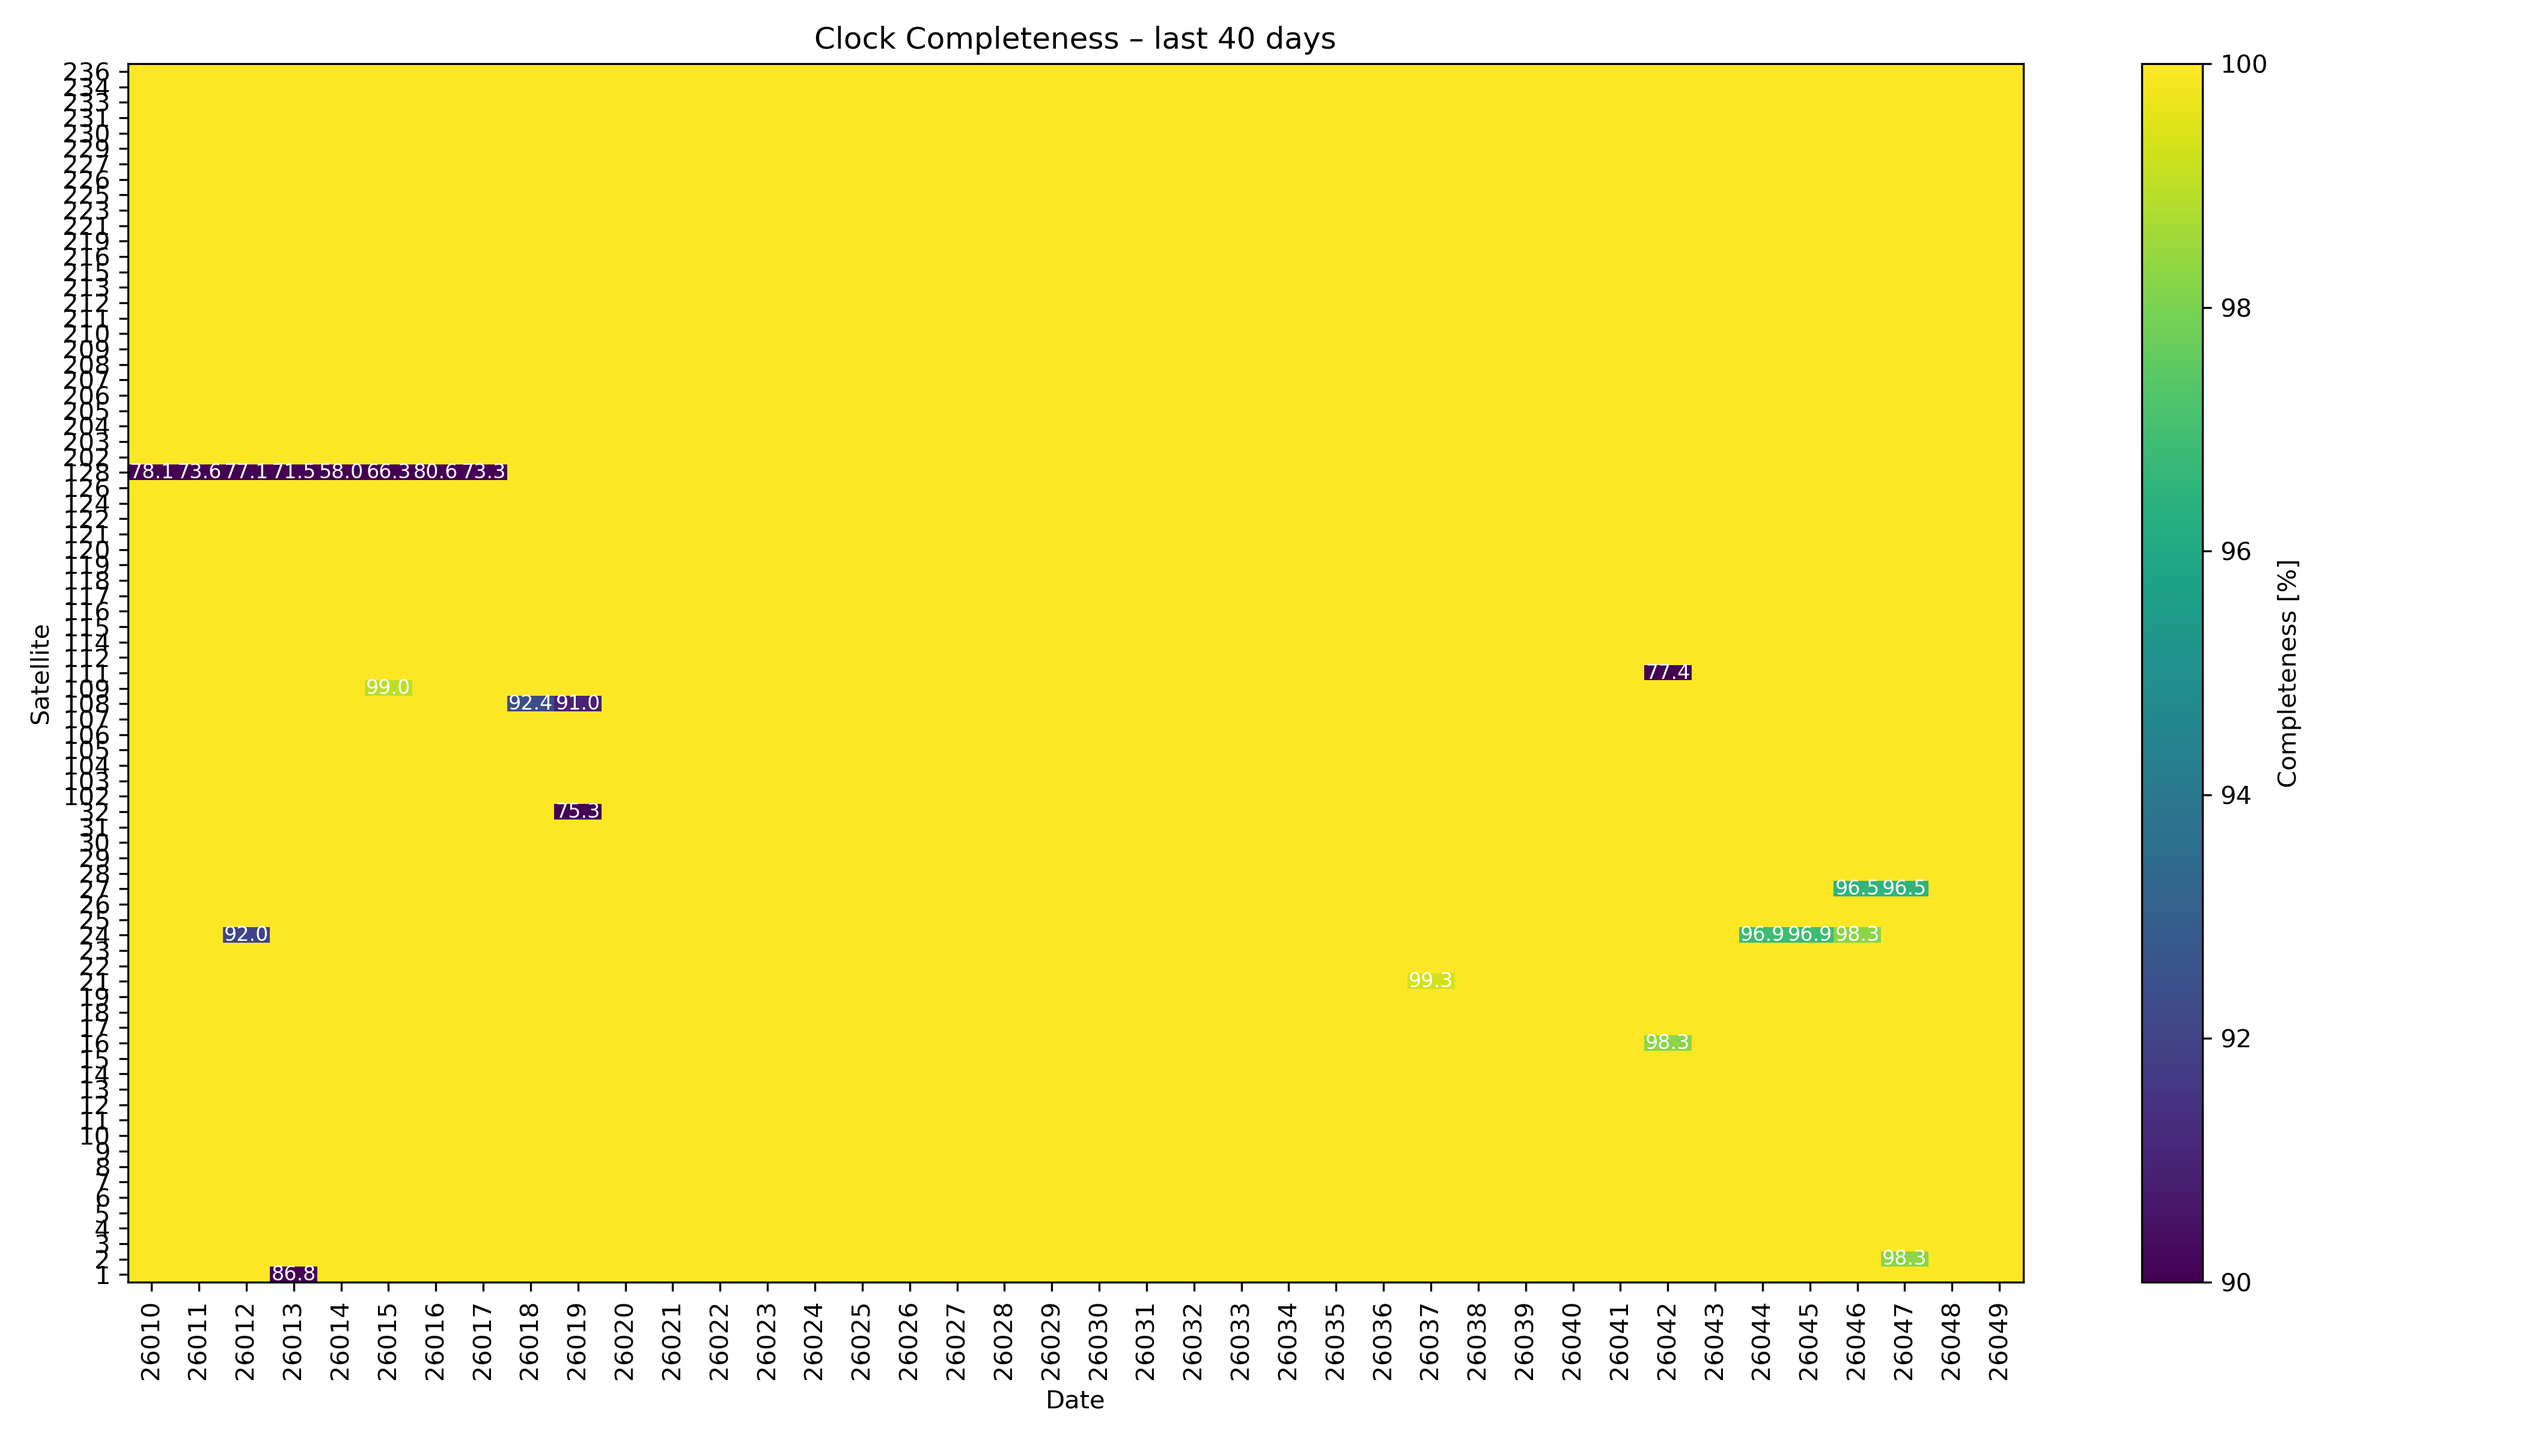
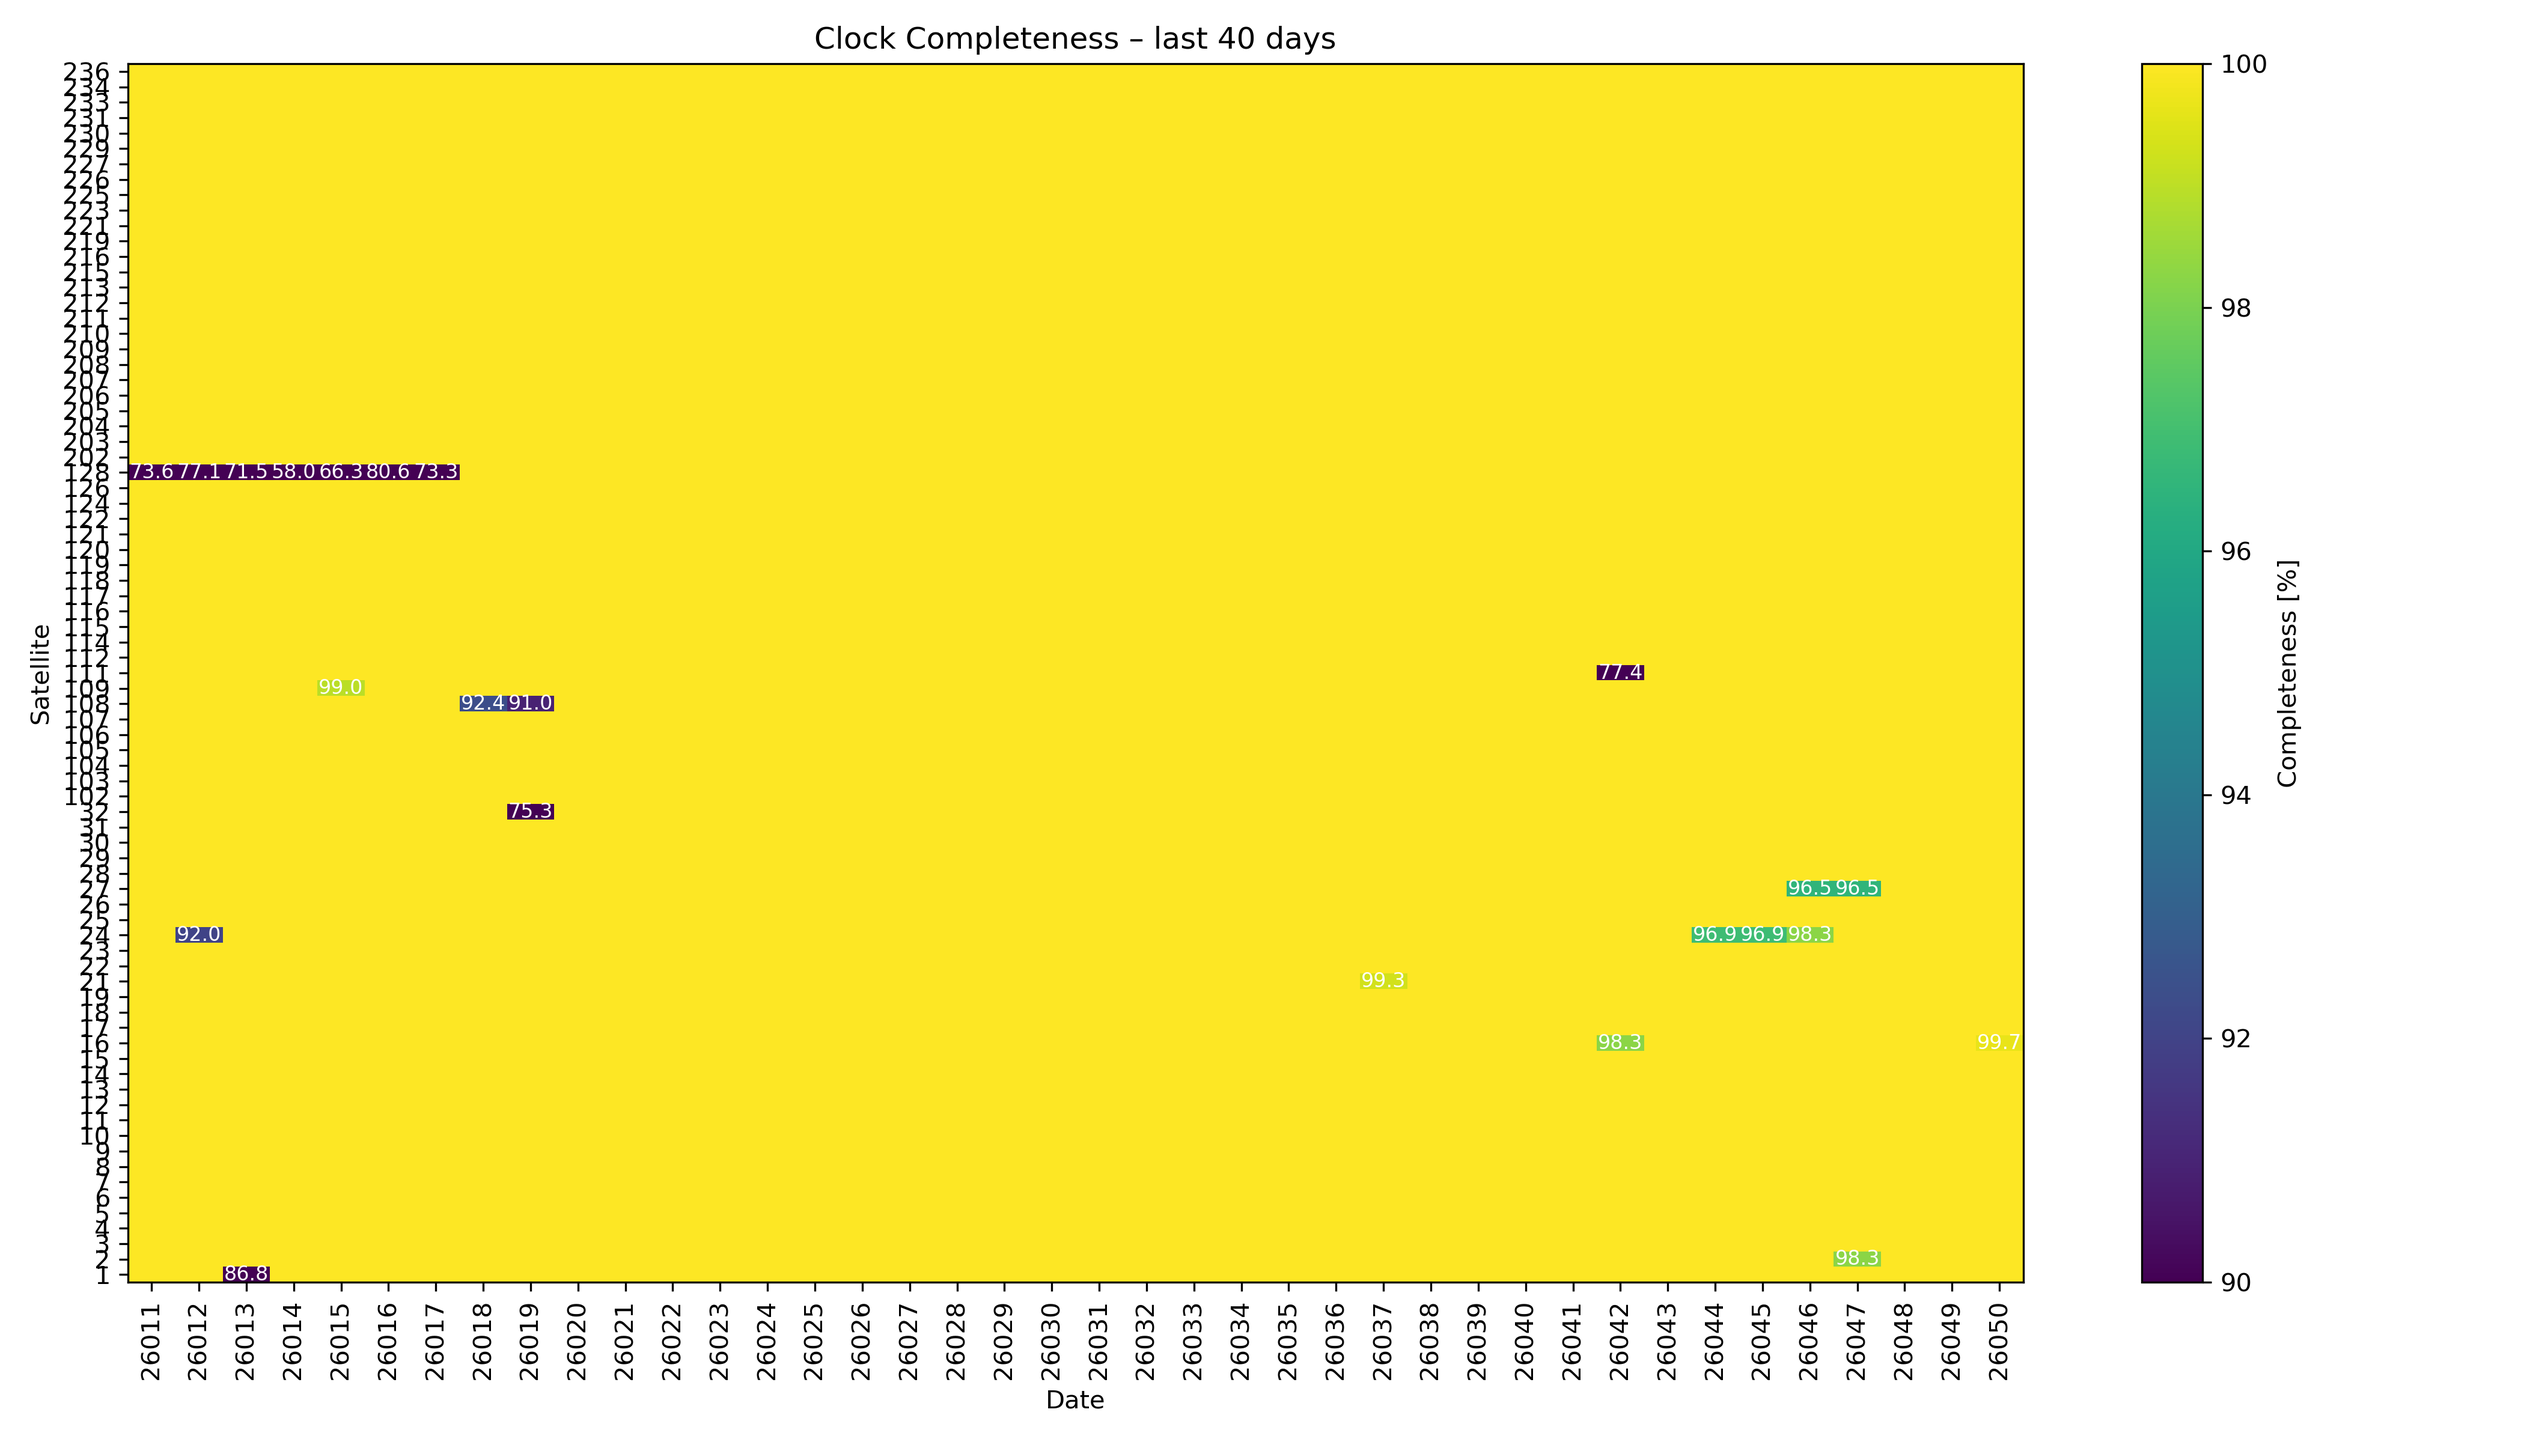
Auto update plots + satclk 2026-02-24 12:13

diff --git a/satclk_list.js b/satclk_list.js
@@ -48,4 +48,5 @@ const satclk_files = [
     "sat_clock_completeness_26047.txt",
     "sat_clock_completeness_26048.txt",
     "sat_clock_completeness_26049.txt",
+    "sat_clock_completeness_26050.txt",
 ];
